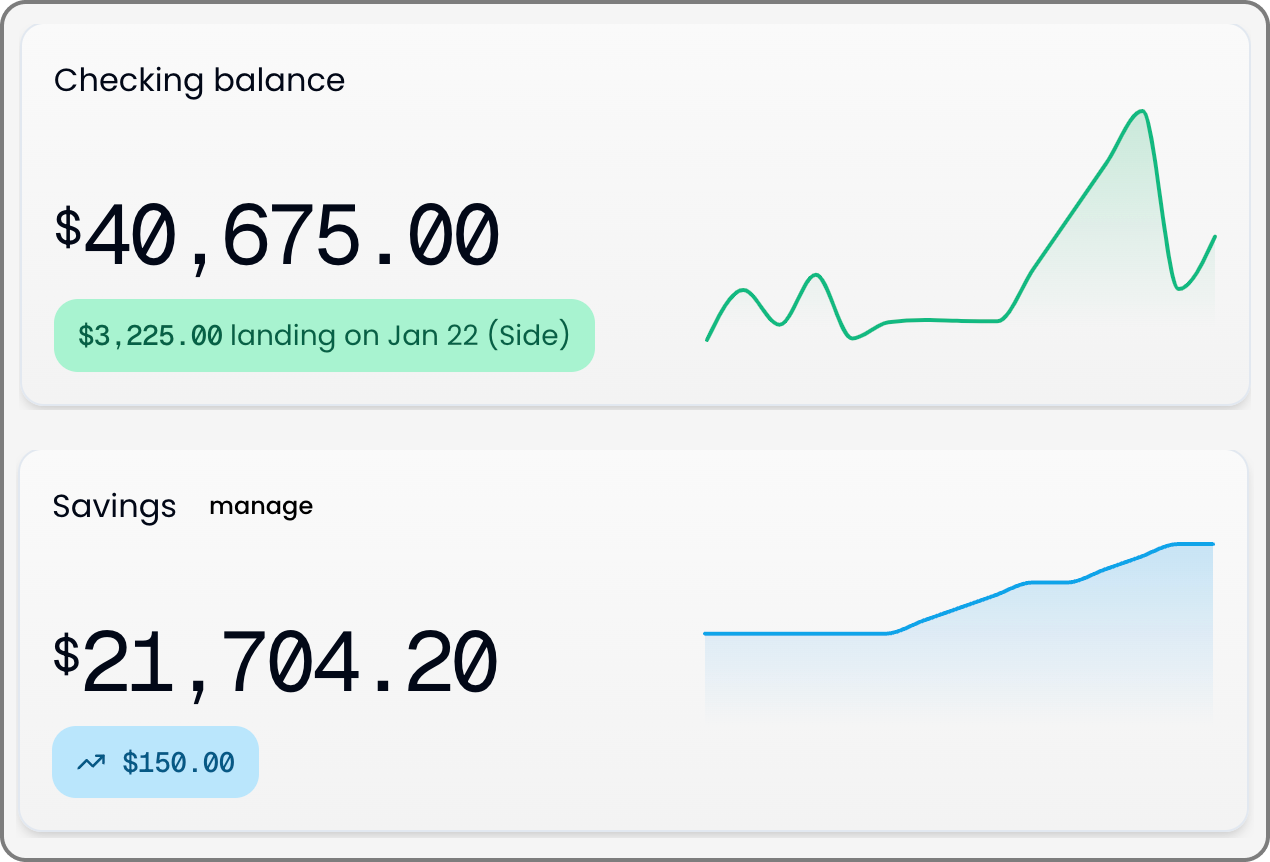
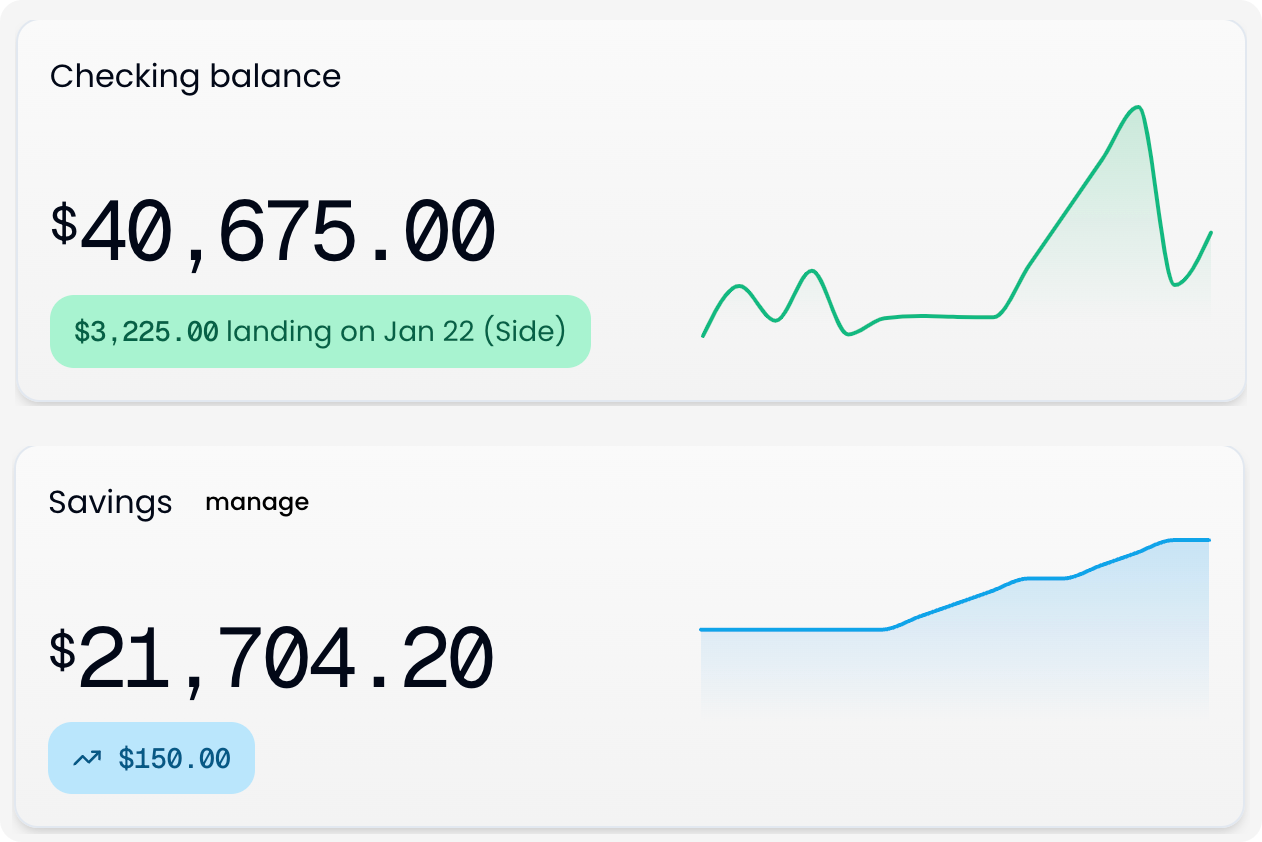
impr(homepage): removed strokes for images in feature section

diff --git a/components/home/FeaturesSection.tsx b/components/home/FeaturesSection.tsx
@@ -19,7 +19,7 @@ export default function FeatureSection() {
         <h1 className="text-3xl font-medium">Finances, Simplified</h1>
       </span>
 
-      <div className="grid grid-cols-2 h-full w-3/5 gap-2">
+      <div className="grid grid-cols-1 lg:grid-cols-2 h-full w-3/5 gap-2">
         {cardDetails.map((item, idx) => (
           <Card key={idx} {...item} />
         ))}
@@ -32,6 +32,9 @@ const Card = ({ header, title, description, image }: TCard) => {
   return (
     <motion.section
       initial={{ opacity: 0, y: 80 }}
+      whileHover={{
+        scale: 1.015
+      }}
       whileInView={{
         opacity: 1,
         y: 0,
@@ -39,7 +42,7 @@ const Card = ({ header, title, description, image }: TCard) => {
           duration: 0.25,
         }
       }}
-      className="bg-slate-200/70 cursor-pointer p-4 border-2 border-slate-200 rounded-lg shadow-sm flex flex-col gap-5 h-fit"
+      className="bg-slate-200/65 cursor-pointer p-4 border-2 border-slate-200 rounded-lg shadow-sm flex flex-col gap-5 h-fit"
     >
       <div
         className={cn(
